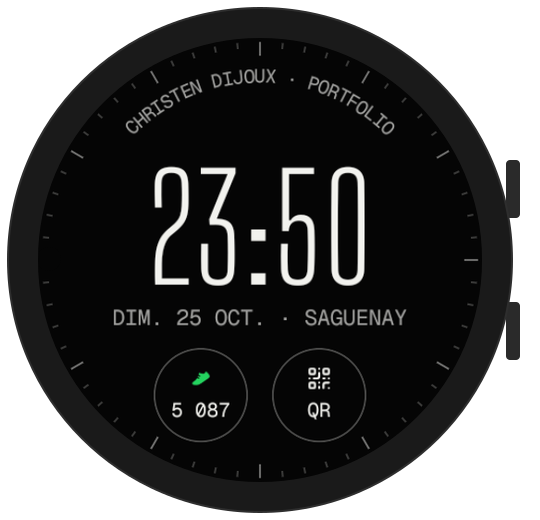
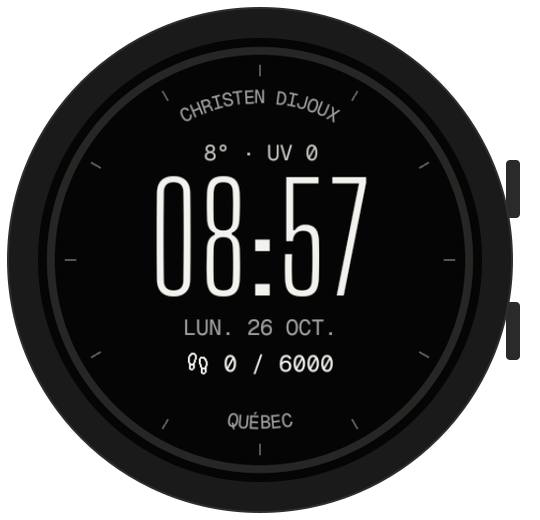
docs: aperçu du nouveau cadran et présentation des écrans par partie (cadran, tuile, app) (#19)

diff --git a/README.md b/README.md
@@ -28,45 +28,77 @@ It carries over the website's identity — monochrome, editorial, condensed type
 
 ## Preview
 
+The project has three parts that work together on the watch: a **watch face**, a **tile** and the **app**. All screenshots come from a real Samsung Galaxy Watch (Wear OS 6, 480 px); the original design mockups are in [docs/design](docs/design).
+
+### 1. Watch face
+
+<p align="center"><img src="docs/screens/11-watch-face.png" width="260" alt="Christen Dijoux watch face"></p>
+
+A watch face in the portfolio's style, installed separately from the app (`portfolio-watch-face-*.apk`) and chosen like any other watch face. From the edge inward:
+
+- **Ring** — fills up around the edge as you walk, toward your daily step goal.
+- **CHRISTEN DIJOUX** — written along the top edge.
+- **Temperature · UV index** — from the Samsung Weather app; the line disappears when no weather data is available.
+- **Time and date** — the time in the site's condensed typeface, the date in the watch language.
+- **Steps / goal** — today's steps and the daily goal.
+- **City** — along the bottom edge: where the watch is right now, provided by the app from its approximate location.
+
+In always-on mode, only the time, date and city remain, dimmed.
+
+### 2. Tile
+
 <table>
   <tr>
-    <td align="center"><img src="docs/screens/01-home.png" width="160" alt="Home"><br><sub><b>Home</b><br>Live time, projects, km</sub></td>
-    <td align="center"><img src="docs/screens/02-menu.png" width="160" alt="Menu"><br><sub><b>Menu</b><br>FR / EN switch, numbered entries</sub></td>
-    <td align="center"><img src="docs/screens/03-projects.png" width="160" alt="Projects"><br><sub><b>Projects</b><br>The 8 portfolio projects</sub></td>
-    <td align="center"><img src="docs/screens/04-case-study.png" width="160" alt="Case study"><br><sub><b>Case study</b><br>Summary, opens on the phone</sub></td>
-    <td align="center"><img src="docs/screens/05-journey.png" width="160" alt="Journey"><br><sub><b>Journey</b><br>Réunion Island → Saguenay</sub></td>
-  </tr>
-  <tr>
-    <td align="center"><img src="docs/screens/06-contact.png" width="160" alt="Contact"><br><sub><b>Contact</b><br>Email, call, LinkedIn, GitHub</sub></td>
-    <td align="center"><img src="docs/screens/07-qr.png" width="160" alt="Business card QR code"><br><sub><b>My card</b><br>vCard QR code to scan</sub></td>
-    <td align="center"><img src="docs/screens/08-game.png" width="160" alt="Star game"><br><sub><b>Star game</b><br>Last score and best</sub></td>
-    <td align="center"><img src="docs/screens/09-playing.png" width="160" alt="Game in progress"><br><sub><b>Playing</b><br>20 s, time ring</sub></td>
-    <td align="center"><img src="docs/screens/10-tile.png" width="160" alt="Contact card tile"><br><sub><b>Tile</b><br>QR, call, email from the watch face</sub></td>
+    <td align="center" valign="top" width="33%"><img src="docs/screens/10-tile.png" width="190" alt="Contact card tile"><br><b>Contact card</b><br><sub>Swipe left from the watch face. Shows availability and three buttons: <b>QR</b> opens the business card, <b>call</b> and <b>email</b> start right away. <b>Portfolio</b> opens the app.</sub></td>
   </tr>
 </table>
 
-### Watch face
+### 3. The app
 
-<p align="center"><img src="docs/screens/11-watch-face.png" width="240" alt="Christen Dijoux watch face"></p>
+**Getting around**
 
-<p align="center"><sub>A watch face in the portfolio's style: step progress ring around the edge, name, temperature and UV index, time, date, steps and the current city.</sub></p>
+<table>
+  <tr>
+    <td align="center" valign="top" width="33%"><img src="docs/screens/01-home.png" width="190" alt="Home screen"><br><b>Home screen</b><br><sub>Opens when you launch the app: time, date, availability, number of projects and kilometres travelled. Tap anywhere to open the menu.</sub></td>
+    <td align="center" valign="top" width="33%"><img src="docs/screens/02-menu.png" width="190" alt="Menu"><br><b>Menu</b><br><sub>The FR / EN switch at the top, then the four sections: Projects, Journey, Contact and Stars. Swipe right to go back, anywhere in the app.</sub></td>
+  </tr>
+</table>
 
-<sub>Screenshots of the real app on a Samsung Galaxy Watch (Wear OS 6, 480 px). The original design mockups are in <a href="docs/design">docs/design</a>.</sub>
+**The portfolio**
 
-## Features
+<table>
+  <tr>
+    <td align="center" valign="top" width="33%"><img src="docs/screens/03-projects.png" width="190" alt="Projects list"><br><b>Projects</b><br><sub>The eight portfolio projects with their number, year and status. Tap one to open it.</sub></td>
+    <td align="center" valign="top" width="33%"><img src="docs/screens/04-case-study.png" width="190" alt="Case study"><br><b>Case study</b><br><sub>A short summary of the project and its technologies. <b>Open on phone</b> shows the full case study on the paired phone.</sub></td>
+    <td align="center" valign="top" width="33%"><img src="docs/screens/05-journey.png" width="190" alt="Journey"><br><b>Journey</b><br><sub>14,420 km from Réunion Island to Saguenay, drawn as a flight path, followed by recent roles.</sub></td>
+  </tr>
+</table>
 
-- **Watch-face home** — live time and date, minute ticks, name written along the edge, availability and two complications. One tap opens the menu.
-- **Projects** — the eight portfolio projects (including this app) with year and status; each case study **opens in full on the paired phone**.
-- **Journey** — 14,420 km from Réunion Island to Saguenay, drawn as a flight path, followed by recent roles.
-- **Contact** — email, call, LinkedIn and GitHub in one tap. Calls go out from the watch when it can, otherwise from the phone.
-- **Business card QR code** — name, title, company, phone, email, city, website, LinkedIn and GitHub as a vCard; scanning it with a phone camera offers to add the contact. Full brightness and screen kept on while it is shown, and it stays on screen in always-on mode so it can still be scanned with the wrist lowered.
-- **Contact card tile** — swipe from the watch face to see availability and jump straight to the QR code, a call or an email.
-- **Watch face** — an installable watch face in the portfolio's style (Watch Face Format): a ring that fills up toward the daily step goal, name along the top edge, temperature and UV index (from Samsung Weather), time in the site's typeface, localized date, steps, and the current city along the bottom edge. The always-on mode keeps only the time, date and city, dimmed.
-- **"City" complication** — the city the watch is in, from its approximate location (permission asked once when the app opens).
-- **"My card" complication** — the app provides a complication that opens the QR business card in one tap, on this watch face or any other.
-- **Star game** — the website's hidden easter egg: catch as many stars as you can in 20 seconds, with haptics on every hit and the best score kept on the watch.
-- **English and French** — follows the watch language by default; a FR / EN switch at the top of the menu overrides it and is remembered (the tile follows too).
+**Getting in touch**
+
+<table>
+  <tr>
+    <td align="center" valign="top" width="33%"><img src="docs/screens/06-contact.png" width="190" alt="Contact"><br><b>Contact</b><br><sub>Email, call, LinkedIn and GitHub in one tap; calls go out from the watch when it can, otherwise from the phone. <b>My card</b> at the bottom opens the QR code.</sub></td>
+    <td align="center" valign="top" width="33%"><img src="docs/screens/07-qr.png" width="190" alt="Business card QR code"><br><b>My card</b><br><sub>A vCard business card as a QR code: point a phone camera at it to add the contact. Full brightness, and it stays on screen when the wrist is lowered. Also one tap away from the tile or the watch face.</sub></td>
+  </tr>
+</table>
+
+**The easter egg**
+
+<table>
+  <tr>
+    <td align="center" valign="top" width="33%"><img src="docs/screens/08-game.png" width="190" alt="Star game"><br><b>Stars</b><br><sub>The website's hidden game: last score, best score and the <b>Play</b> button.</sub></td>
+    <td align="center" valign="top" width="33%"><img src="docs/screens/09-playing.png" width="190" alt="Game in progress"><br><b>Playing</b><br><sub>Catch as many stars as you can in 20 seconds; the ring around the edge counts down, and every hit vibrates.</sub></td>
+  </tr>
+</table>
+
+## Highlights
+
+- **English and French** — the app follows the watch language; the FR / EN switch in the menu overrides it and is remembered (the tile and the complications follow too).
+- **Complications for any watch face** — *My card* (opens the QR code) and *City* (where the watch is), usable on Samsung's watch faces as well.
+- **Always-on aware** — the QR code stays scannable with the wrist lowered; the other screens switch to a quiet, nearly black clock.
 - **Standalone** — no companion app needed on the phone.
+- **Signed releases** — every `v*` tag publishes the app and the watch face, signed with the same key, so updates install on top without losing data.
 
 ## Install
 
